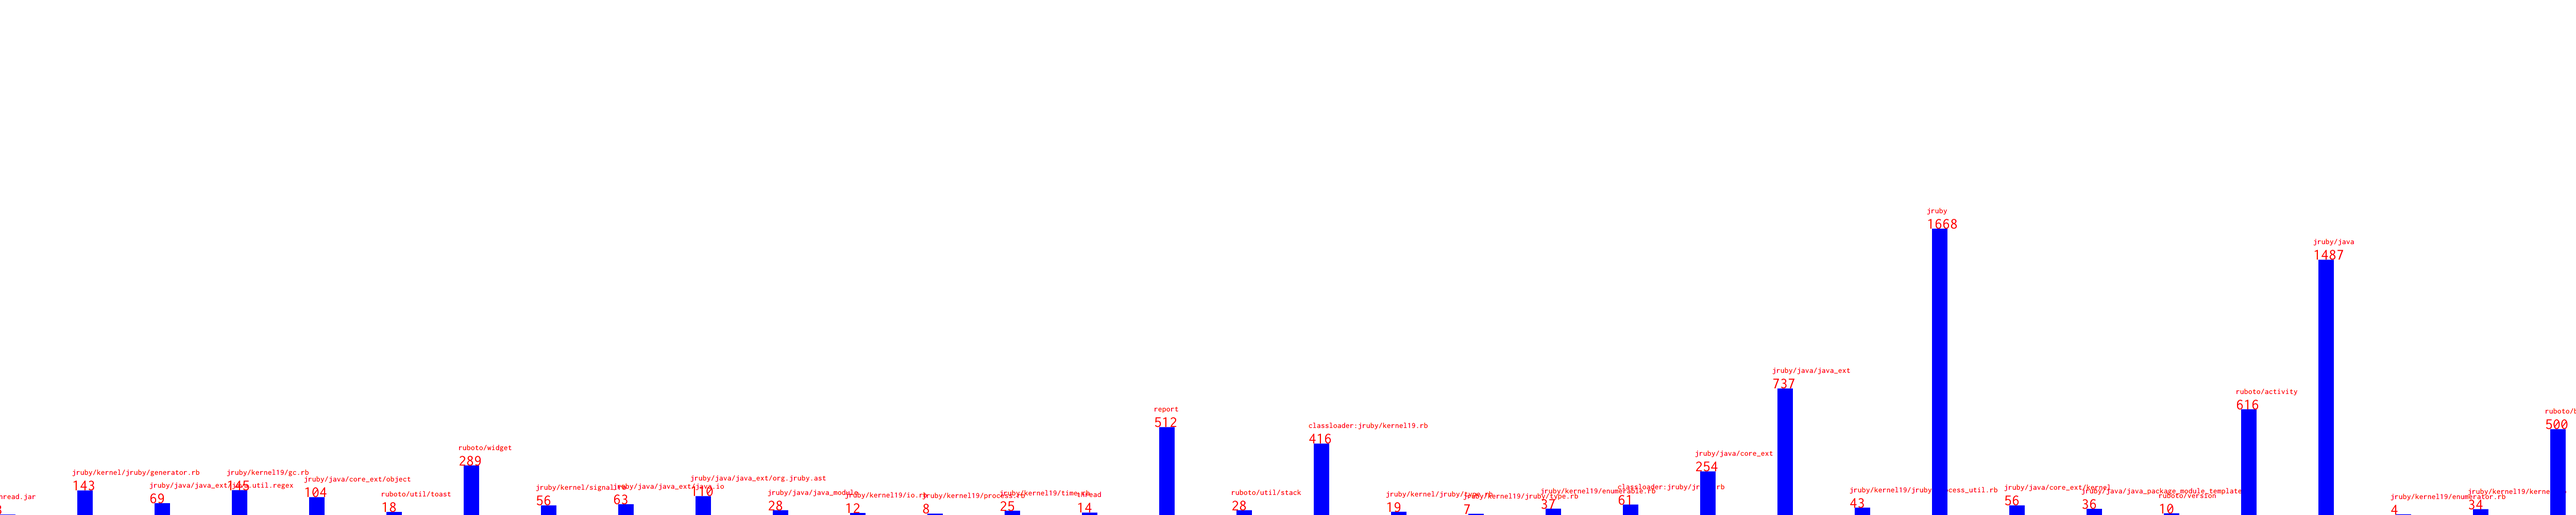
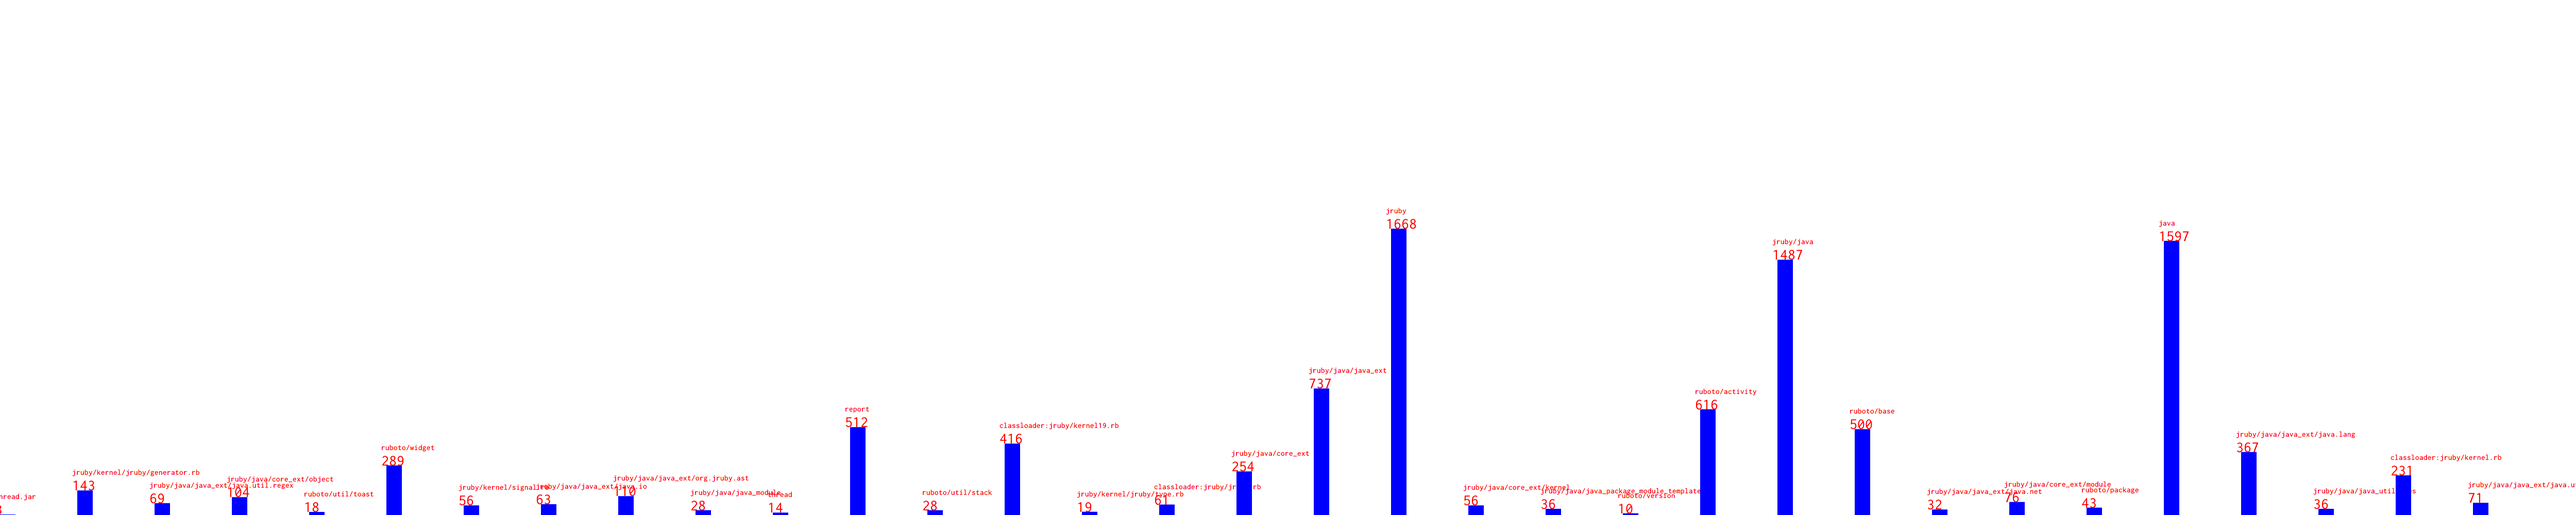
update draw script

diff --git a/calender/jruby_loading_logs/cairo.rb b/calender/jruby_loading_logs/cairo.rb
@@ -3,8 +3,8 @@ include Cairo
 benchmark = {}
 #LOGFILE = "Ruby1_8-off.log"
 #LOGFILE = "Ruby1_8-offir.log"
-LOGFILE = "Ruby1_9-off.log"
-#LOGFILE = "Ruby1_9-offir.log"
+#LOGFILE = "Ruby1_9-off.log"
+LOGFILE = "Ruby1_9-offir.log"
 
 File.open(LOGFILE).each_line do |line|
   benchmark.store *(line.split " ")
@@ -25,6 +25,7 @@ context.fill do
 end
 
 benchmark.each do |name, data|
+  next if name =~ /\w+\/kernel19\/\w+/
   context.set_source_rgb 0,0,1
   context.rectangle start, height, step, -data.to_f/3
   context.fill
